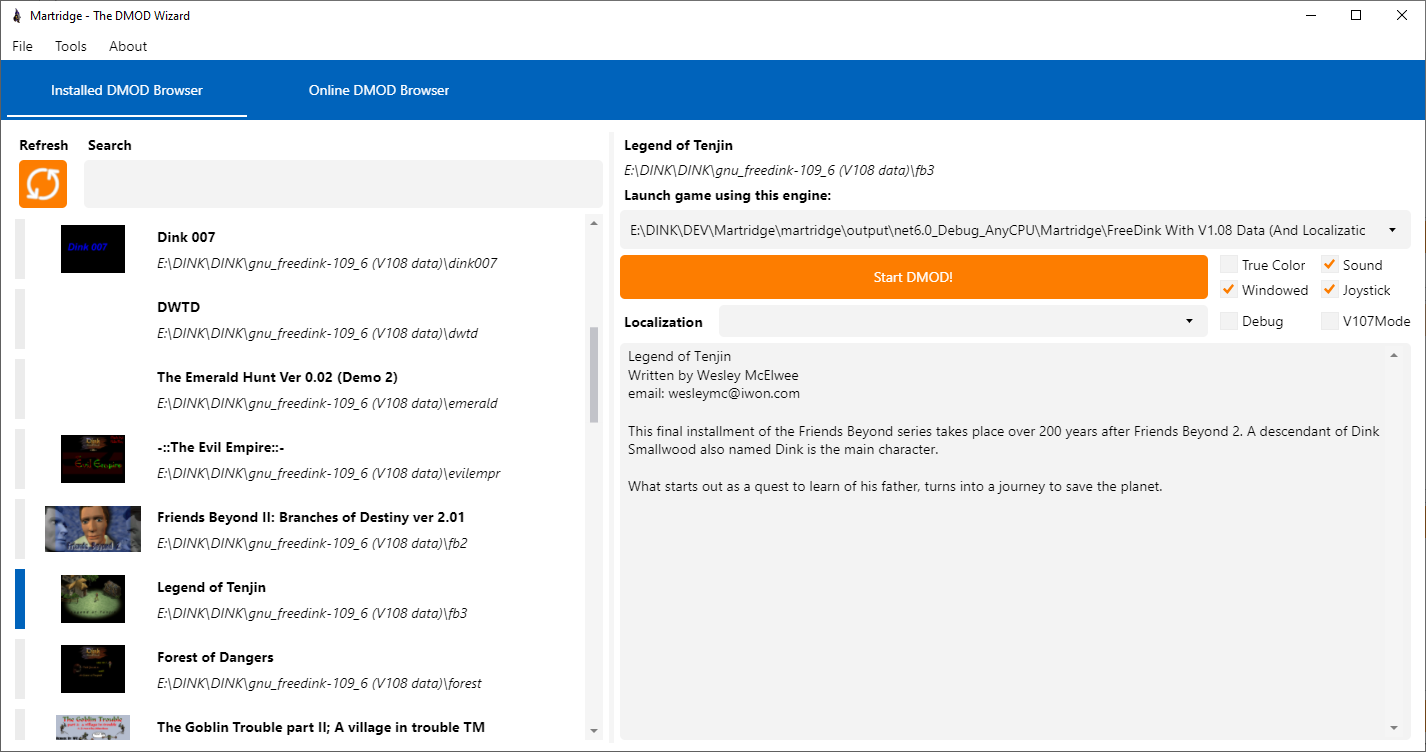
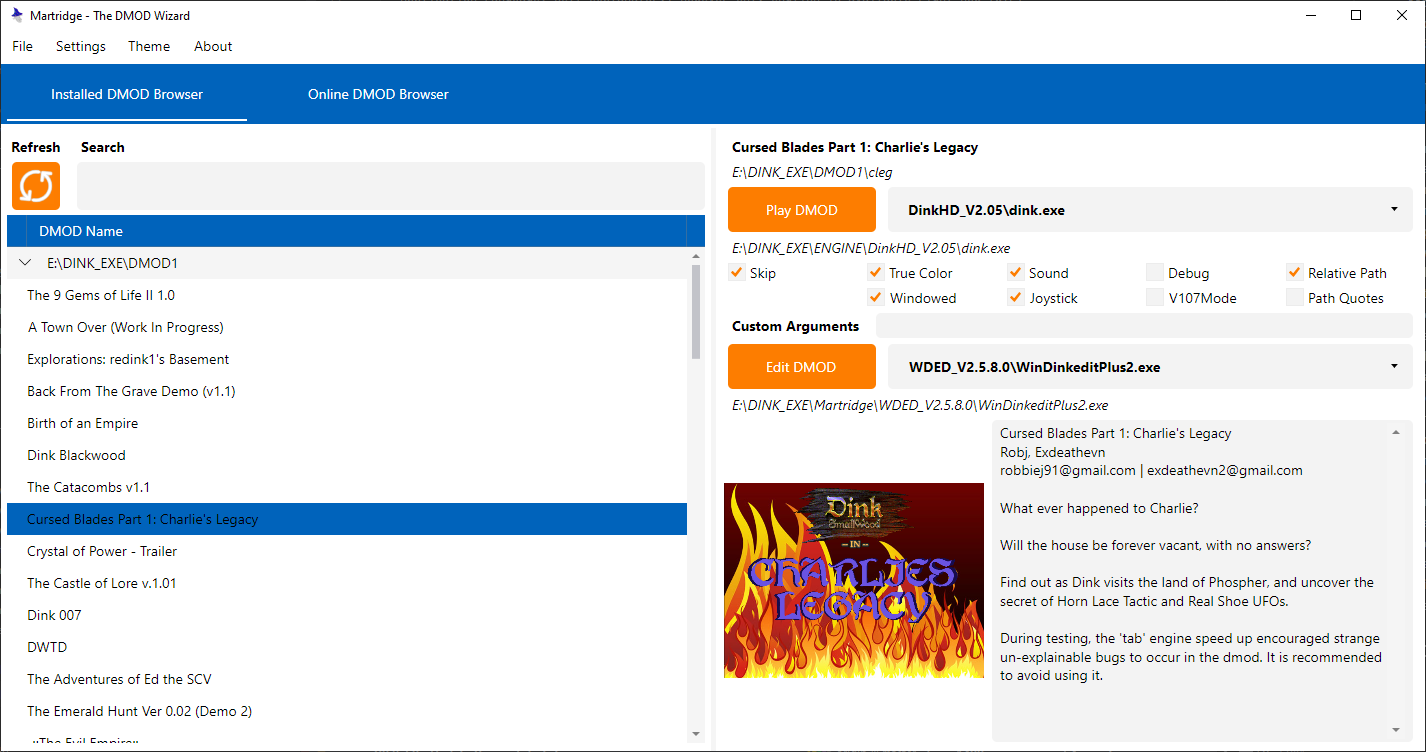
Updated README.md

diff --git a/README.md b/README.md
@@ -8,23 +8,24 @@ This application is a DMOD manager/launcher for Dink Smallwood.
 
 ## What can it do?
 - Runs on Windows and Linux using .NET [1]
-- Automagically install a number of versions of the Dink engine on Windows
-- Select from multiple user configurable Dink engine versions to launch a DMOD with [2]
-- Detect DMODs already installed in multiple user configurable locations
-- Is localizable using .json files [3] 
+- Automagically install a number of versions of the Dink engine and editors on Windows [2]
+- Select from multiple user configurable Dink engine or editor versions to launch a DMOD with [3]
+- Lets you manage DMODs already installed in multiple user configurable locations
+- Is localizable using .json files [4] 
 - Supports DMOD localization, only when using FreeDink
 - Features an online DMOD browser that parses HTML data from the Dink Network, so you can browse and install dmods with just a click or two
 
 ### Notes
 1. The application uses [AvaloniaUI](https://avaloniaui.net/) for its GUI Framework
 
+2. The config file defining installable Dink engines and editors is now pulled from here: [https://github.com/drone1400/martridge-cfg-install](https://github.com/drone1400/martridge-cfg-install)
 
-2. The following versions can be installed under windows:
+3. The following versions can be installed under windows:
 - FreeDink - considered the best way to play Dink by the community
 - DinkHD - the current official release of Dink, available on multiple platforms like Android or MacOS but unfortunately not on Linux systems
 - The original Dink Smallwood V1.08 - the decade old original release, still runs under Windows, although you probably don't wnat to use this anymore...
 
-3. Application Localization is WIP - Technically works but only english is available right now, I need to add more info about how to define the localization files using a template later...
+4. Application Localization is WIP - Technically works but only english is available right now, I need to add more info about how to define the localization files using a template later...
 
 ## Building
 Assuming that you're somewhat familiar with dotnet applications...
@@ -33,14 +34,11 @@ Assuming that you're somewhat familiar with dotnet applications...
 ```git submodule update --init --recursive```
 3. Publish the project to folder using dotnet
 
-Here are my dotnet publish commandline options:
-- Windows x64 using NetCore 3.1 ```dotnet publish ./martridge/src/martridge.csproj --output ./publish/netcoreapp3.1_win-x64/martridge/ --configuration Release --framework netcoreapp3.1 --self-contained true --runtime win-x64 -p:PublishSingleFile=true```
-- Windows x86 using NetCore 3.1 ```dotnet publish ./martridge/src/martridge.csproj --output ./publish/netcoreapp3.1_win-x86/martridge/ --configuration Release --framework netcoreapp3.1 --self-contained true --runtime win-x86 -p:PublishSingleFile=true```
-- Windows x64 using Net 6.0 ```dotnet publish ./martridge/src/martridge.csproj --output ./publish/net6.0_win-x64/martridge/ --configuration Release --framework net6.0 --self-contained true --runtime win-x64 -p:PublishSingleFile=true```
-- Linux x64 using Net 6.0 ```dotnet publish ./martridge/src/martridge.csproj --output ./publish/net6.0_linux-x64/martridge/ --configuration Release --framework net6.0 --self-contained true --runtime linux-x64 -p:PublishSingleFile=true```
+NOTE: you can run the included `build-everything.ps1` file to publish to folder the following configurations: `win-x86`, `win-x64`, `linux-x64`, `osx-x64`, `osx-arm64`.
+Alternatively, you can just manually pick one of the included publish configurations to use.
+The `build-everything-readytorun.ps1` script does the same thing but publishes using the "ready to run" feature, which makes the application start up slightly faster at the expense of a bigger file size.
 
-If you are using JetBrains Rider, you should be able to use the run profiles included in the source.
-If you are using Visual Studio, you should be able to create your own publish profile based on the run profiles and the information above.
+Here is an example publish command for win-x64: ```dotnet publish ./martridge/src/martridge.csproj --output ./publish/net8.0_win-x64/martridge/ --configuration Release -p:Platform="x64" --framework net8.0 --runtime win-x64 --self-contained true -p:PublishSingleFile=true -p:IncludeNativeLibrariesForSelfExtract=true```
 
 ## Overview
 
@@ -75,18 +73,24 @@ The settings interface looks like this:
 
 These can also be manually edited in "config/config.json"
 
-- Show App Log Window on startup: exactly as it says, the log window should display any errors or warnings that occur, this is mostly for debugging purposes
-- Show advanced features: (WIP) this currently doesn't do anything
+- Show App Log Window on startup: enabled by default, does exactly as it says, the log window should display any errors or warnings that occur, this is mostly for debugging purposes
+- Show DMOD developer features: enabled by default, shows DMOD dev features such as the launch editor button and pack DMOD commands, disable this if you don't care about them
 - Try to use relative paths in config files: this will store all subfolders in the config.json file as relative to the application root, helps if you want the application to be portable to another computer
 - Application Language: self explanatory, however only english is available right now (WIP)
+- Auto update existing configInstallerList.json: leftover from previous version, currently doesn't do anything
 - Default DMOD location: this is the main location where the application should install dmods (although it lets you choose others during DMOD installation too...)
 - Additional DMOD locations: the application can look in these directories for installed dmods
 - Game locations: Dink engine executables used to launch the game, you can even have different versions of the same engine if you so desire
+- Editor locations: Dink editor executables used to edit DMODs
 
 ### DMOD Browser
 The DMOD browser looks like this:
 ![](doc/images/screenshot_dmodbrowser_ex01.png)
 On the left you have a list of DMODS that were found. On the right you have the currently selected DMOD info. In the top left above the list, you can hit the refresh button to scan the directories for DMODS again or use the Search input box to filter the DMODS if you have too many.
+
+DMODs get grouped by their root install directories.
+
+You can click the "DMOD Name" header to toggle sorting DMODs by name in ascending or descending orders.
 
 In the DMOD info, you can select which Game Engine to use to launch the game (if you have more than one configured in Settings).
 You have the usual launch options as in DFArc, and below the launch button you have the FreeDink localization selection. Obviously, this only works if the selected DMOD has localization files in the first place, and you are using FreeDink.
@@ -102,12 +106,9 @@ You can view DMOD reviews, screenshots and all the released versions straight fr
 
 
 ## TODO...
-The application is mostly complete and functional, but there are still things left to do:
-- Bug hunting and fixing
-- User suggestions
-- GUI improvements?
-- Make online DMOD browser automagically refresh without spamming the Dink Network website
-- Figure out a way to automagically install FeeDink under Linux
-- Build and test how this runs under MacOS (Currently don't have a macbook to do this though)
-- Figure out commandline dotnet stuff so I can explain how you build this on linux yourself (I'm using JetBrains Rider myself right now)
-- Figure out GitHub actions and releases and see if I can automate building/publishing the application?...
+There are still some things I'd like to do before a proper V1.0 release:
+- Write a proper documentation static website for it using Material for MkDocs
+- Improve the Dink Installer feature so you can choose where to source the `configInstallerList.json` file from (currently it is hardcoded to get the latest version from https://github.com/drone1400/martridge-cfg-install)
+- Add proper SteamDeck support (currently certain controls like combo-boxes and message boxes don't render with the deck in game mode plus some other issues...)
+- Maybe add NSIS installer format support to SharpCompress so I don't have to rely on the extra 7zip wrapper anymore (this would also help make the Dink installer work on Linux for FreeDink)
+- Maybe change DMOD launch options so they can be saved separately on a per engine/editor basis
